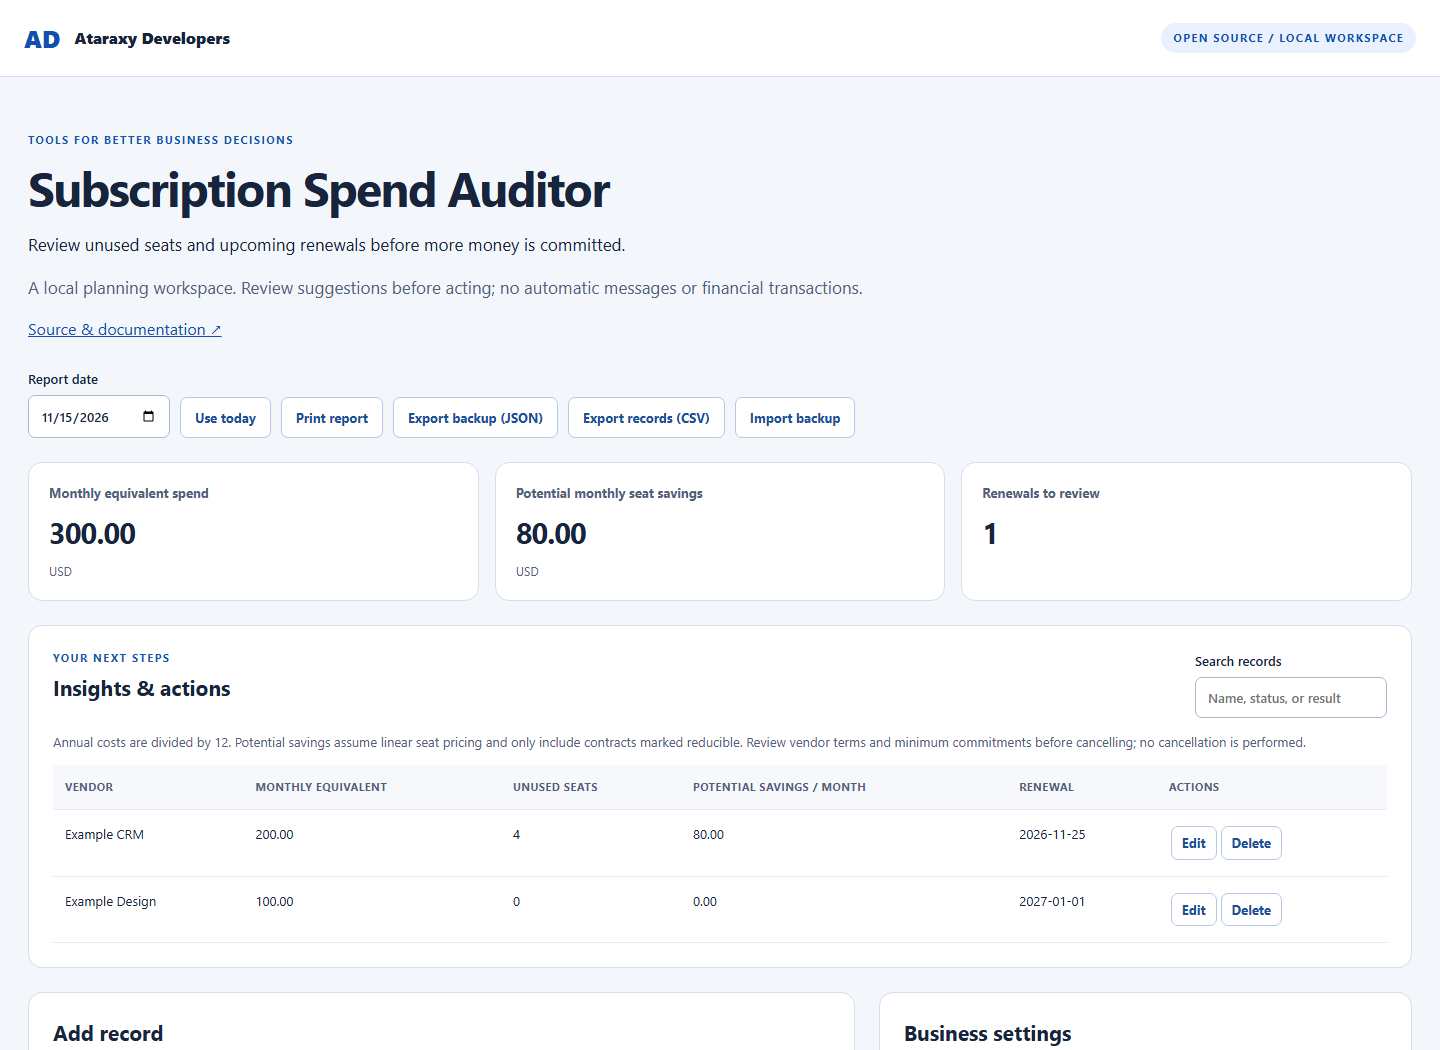
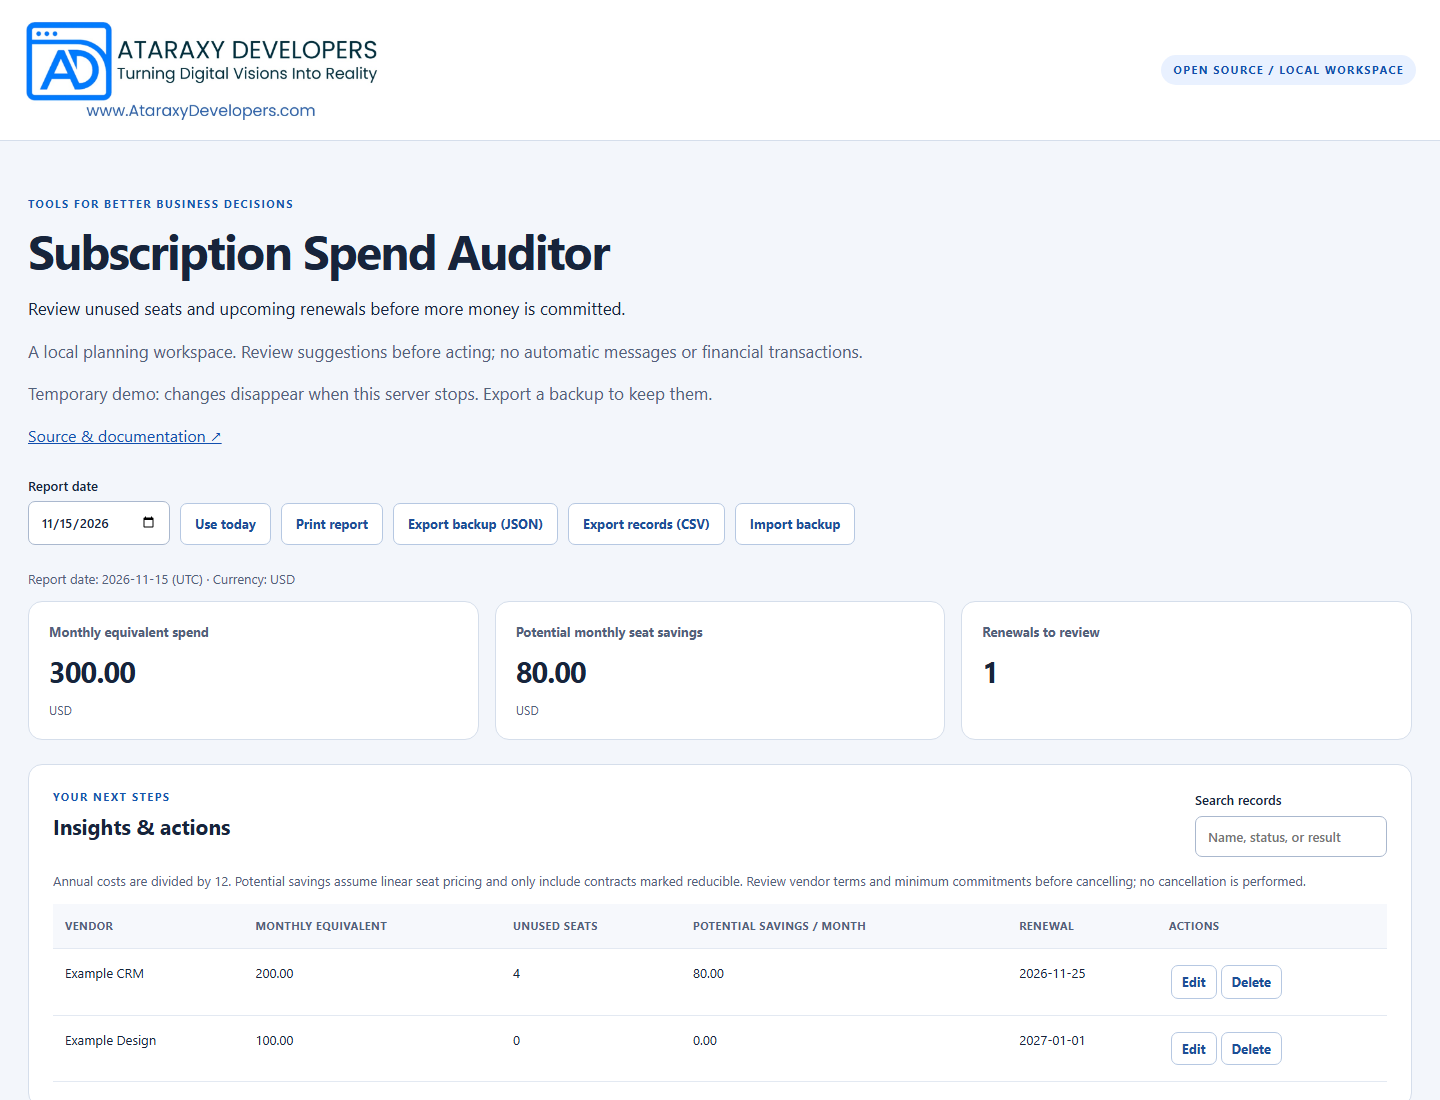
Use approved Ataraxy Developers branding

diff --git a/public/index.html b/public/index.html
@@ -4,16 +4,14 @@
     <meta charset="utf-8" />
     <meta name="viewport" content="width=device-width,initial-scale=1" />
     <title>Business workspace · Ataraxy Developers</title>
-    <link rel="icon" href="/favicon.svg" />
+    <link rel="icon" href="/ataraxy-developers-logo.png" type="image/png" />
     <link rel="stylesheet" href="/style.css" />
     <script type="module" src="/app.js"></script>
   </head>
   <body>
     <a class="skip" href="#main">Skip to workspace</a>
     <header>
-      <a class="brand" href="https://ataraxydevelopers.com"
-        >AD <span>Ataraxy Developers</span></a
-      ><span class="badge">OPEN SOURCE / LOCAL WORKSPACE</span>
+      <a class="brand" href="https://ataraxydevelopers.com"><img src="/ataraxy-developers-logo.png" alt="Ataraxy Developers — Turning Digital Visions Into Reality" width="1127" height="313" /></a><span class="badge">OPEN SOURCE / LOCAL WORKSPACE</span>
     </header>
     <main id="main">
       <section class="hero">

diff --git a/public/style.css b/public/style.css
@@ -40,10 +40,6 @@ header {
   font-weight: 800;
   text-decoration: none;
 }
-.brand span {
-  font-size: 16px;
-  color: #17243b;
-}
 .badge,
 .eyebrow {
   font-size: 11px;
@@ -364,3 +360,9 @@ footer {
     font-size: 27px;
   }
 }
+
+/* Use the complete, original company artwork without distortion. */
+header { flex-wrap: wrap; gap: 16px; background: #fff; }
+.brand { display: block; flex: 0 1 360px; min-width: 0; max-width: 100%; background: #fff; }
+.brand img { display: block; width: 360px; max-width: 100%; height: auto; }
+@media (max-width: 600px) { header { padding: 18px 20px; } .brand { flex-basis: 360px; } }

diff --git a/BRANDING.md b/BRANDING.md
@@ -1,0 +1,10 @@
+# Ataraxy Developers branding
+
+The company-approved logo is [public/ataraxy-developers-logo.png](public/ataraxy-developers-logo.png). It is the original PNG supplied by Ataraxy Developers on 2026-11-16, unchanged.
+
+- Preserve the complete artwork, its aspect ratio, and its white background.
+- Do not redraw it or substitute typed initials, an invented monogram, or generated artwork.
+- Use readable sizing and descriptive alternative text.
+- Capture screenshots from the working interface after this logo has loaded.
+
+SHA-256: 87ebc5a0092af0fff4524e805730ca3dc97c4483bd49f866528b8cdb97d422e7

diff --git a/README.md b/README.md
@@ -1,3 +1,5 @@
+<p><a href="https://ataraxydevelopers.com"><img src="public/ataraxy-developers-logo.png" alt="Ataraxy Developers — Turning Digital Visions Into Reality" width="520"></a></p>
+
 # Subscription Spend Auditor
 
 [![CI](https://github.com/AtaraxyDevelopers/subscription-spend-auditor/actions/workflows/ci.yml/badge.svg)](https://github.com/AtaraxyDevelopers/subscription-spend-auditor/actions/workflows/ci.yml)

diff --git a/CHANGELOG.md b/CHANGELOG.md
@@ -1,5 +1,9 @@
 # Changelog
 
+## 0.1.2 — 2026-11-16
+
+Use the original, approved Ataraxy Developers logo and document its source. Update the interface and browser icon, serve the PNG correctly, and replace the README screenshot with a capture of the corrected app.
+
 ## 0.1.1
 
 - Correct optional date defaults when adding records.
